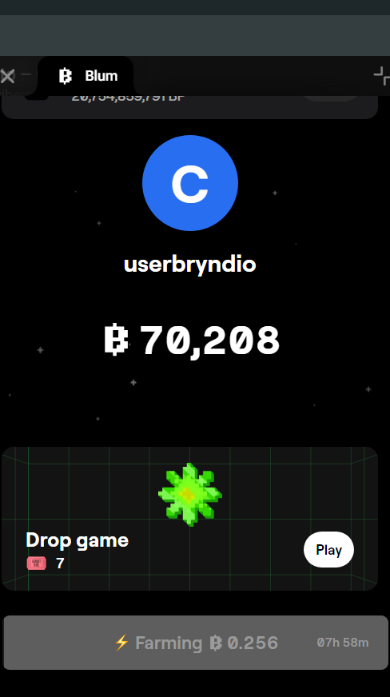
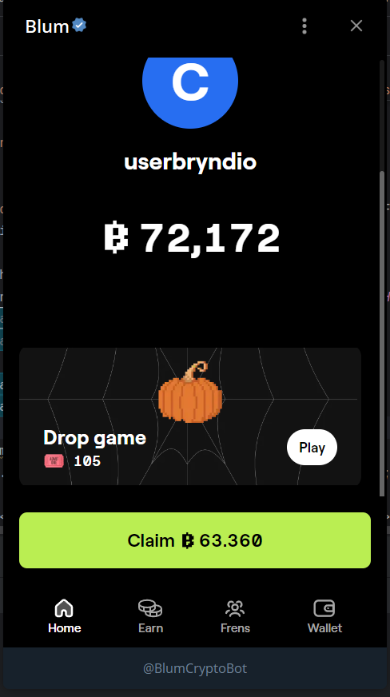
Trying to modify code due to game update

diff --git a/AutoClicker/blumkiss/src/logic/Logic.java b/AutoClicker/blumkiss/src/logic/Logic.java
@@ -271,7 +271,7 @@ public class Logic {
                 File outputfile = new File(screenshotFilename);
                 ImageIO.write(screenshotGameplay, "png", outputfile);
 
-                detectObjectsSecondHalf(robot, screenshotFilename, xPlay, yPlay);
+                detectObjects(robot, screenshotFilename, xPlay, yPlay);
                 Thread.sleep(200);
             }
         }
@@ -331,8 +331,11 @@ public class Logic {
 
         Mat hsvImage = new Mat();
         Imgproc.cvtColor(image, hsvImage, Imgproc.COLOR_BGR2HSV);
-        Scalar lowerGreen = new Scalar(35, 150, 160, 0);
-        Scalar upperGreen = new Scalar(70, 255, 255, 0);
+//        Scalar lowerGreen = new Scalar(35, 150, 160, 0);
+//        Scalar upperGreen = new Scalar(70, 255, 255, 0);
+
+        Scalar lowerGreen = new Scalar(15, 15, 15, 0);
+        Scalar upperGreen = new Scalar(150, 165, 255, 0);
 
         Mat mask = new Mat();
         Core.inRange(hsvImage, lowerGreen, upperGreen, mask);
@@ -346,7 +349,7 @@ public class Logic {
             int centerX = boundingRect.x + boundingRect.width / 2;
             int centerY = boundingRect.y + boundingRect.height / 2;
 
-            if(boundingRect.width > 20 && boundingRect.height > 20) {
+            //if(boundingRect.width > 20 && boundingRect.height > 20) {
                 System.out.println("Snowflake found at x, y: " + centerX + ", " + centerY);
                 robot.mouseMove(centerX + x, centerY + y);
                 robot.mousePress(InputEvent.BUTTON1_DOWN_MASK);
@@ -359,10 +362,10 @@ public class Logic {
 
                 starIndex++;
                 Thread.sleep(4);
-            }
-            else{
-                System.out.println("Object is too small, skipping it" + boundingRect.width + " - width; " + boundingRect.height + " - height.");
-            }
+            //}
+//            else{
+//                System.out.println("Object is too small, skipping it" + boundingRect.width + " - width; " + boundingRect.height + " - height.");
+//            }
         }
 
         mask.release();
